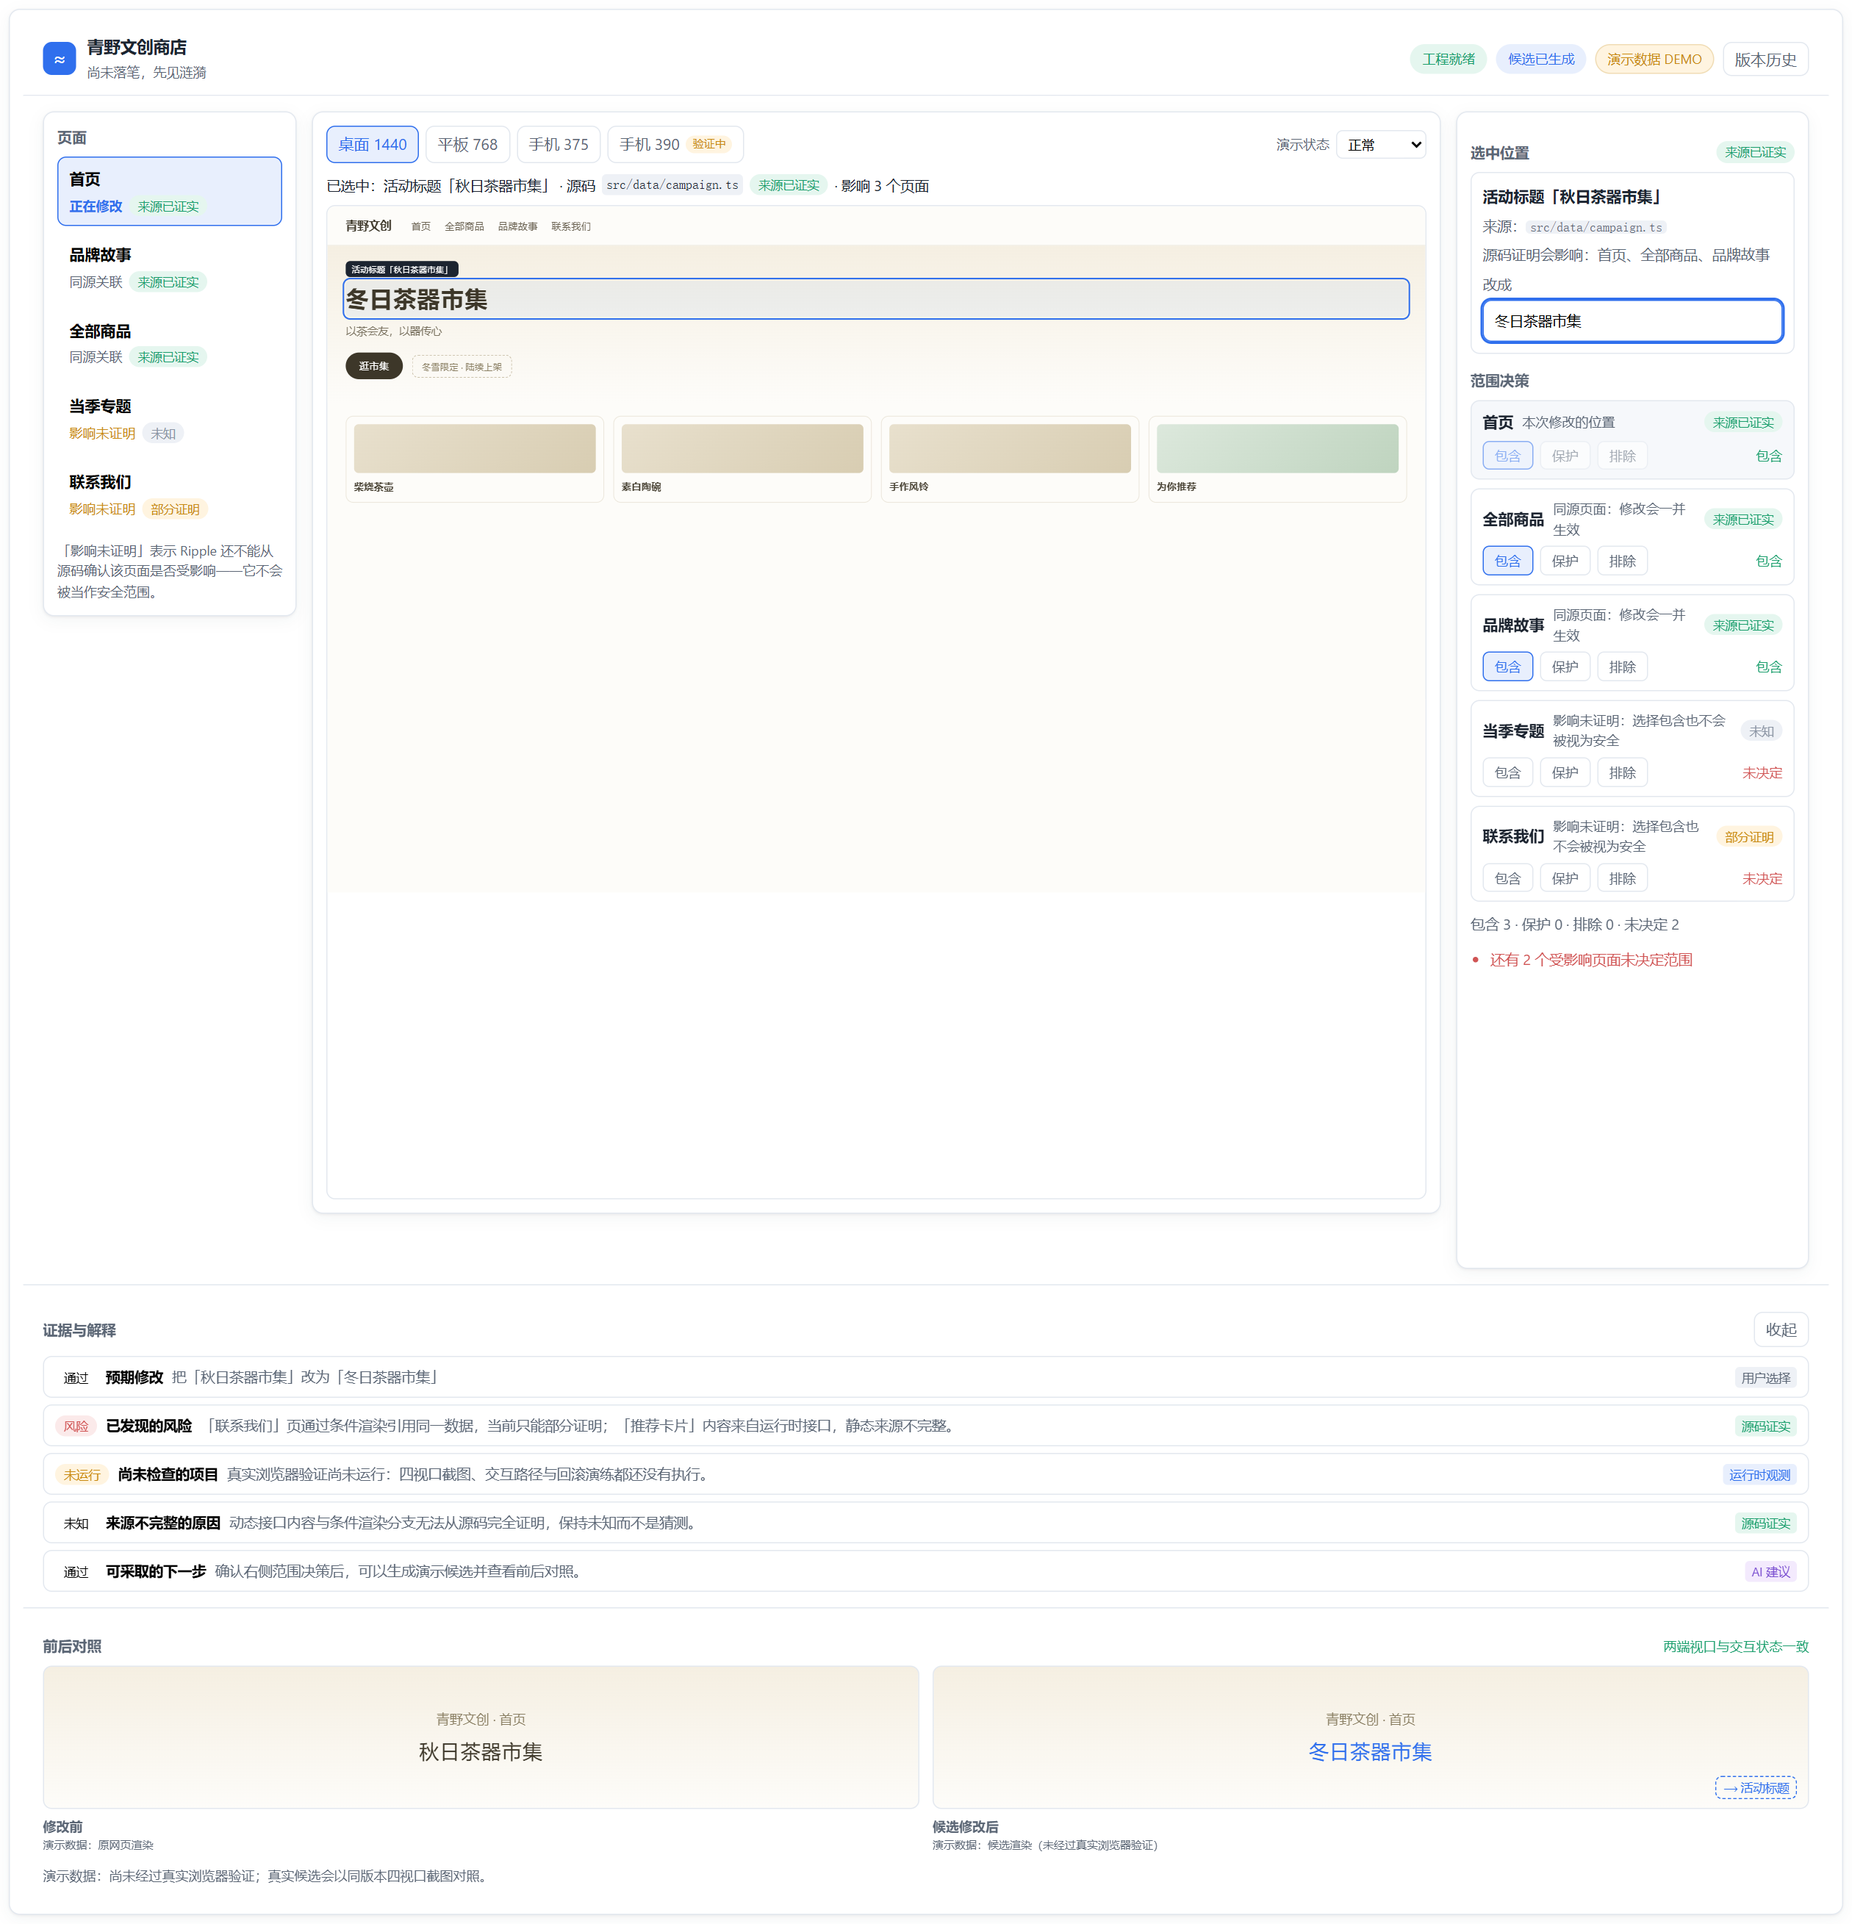
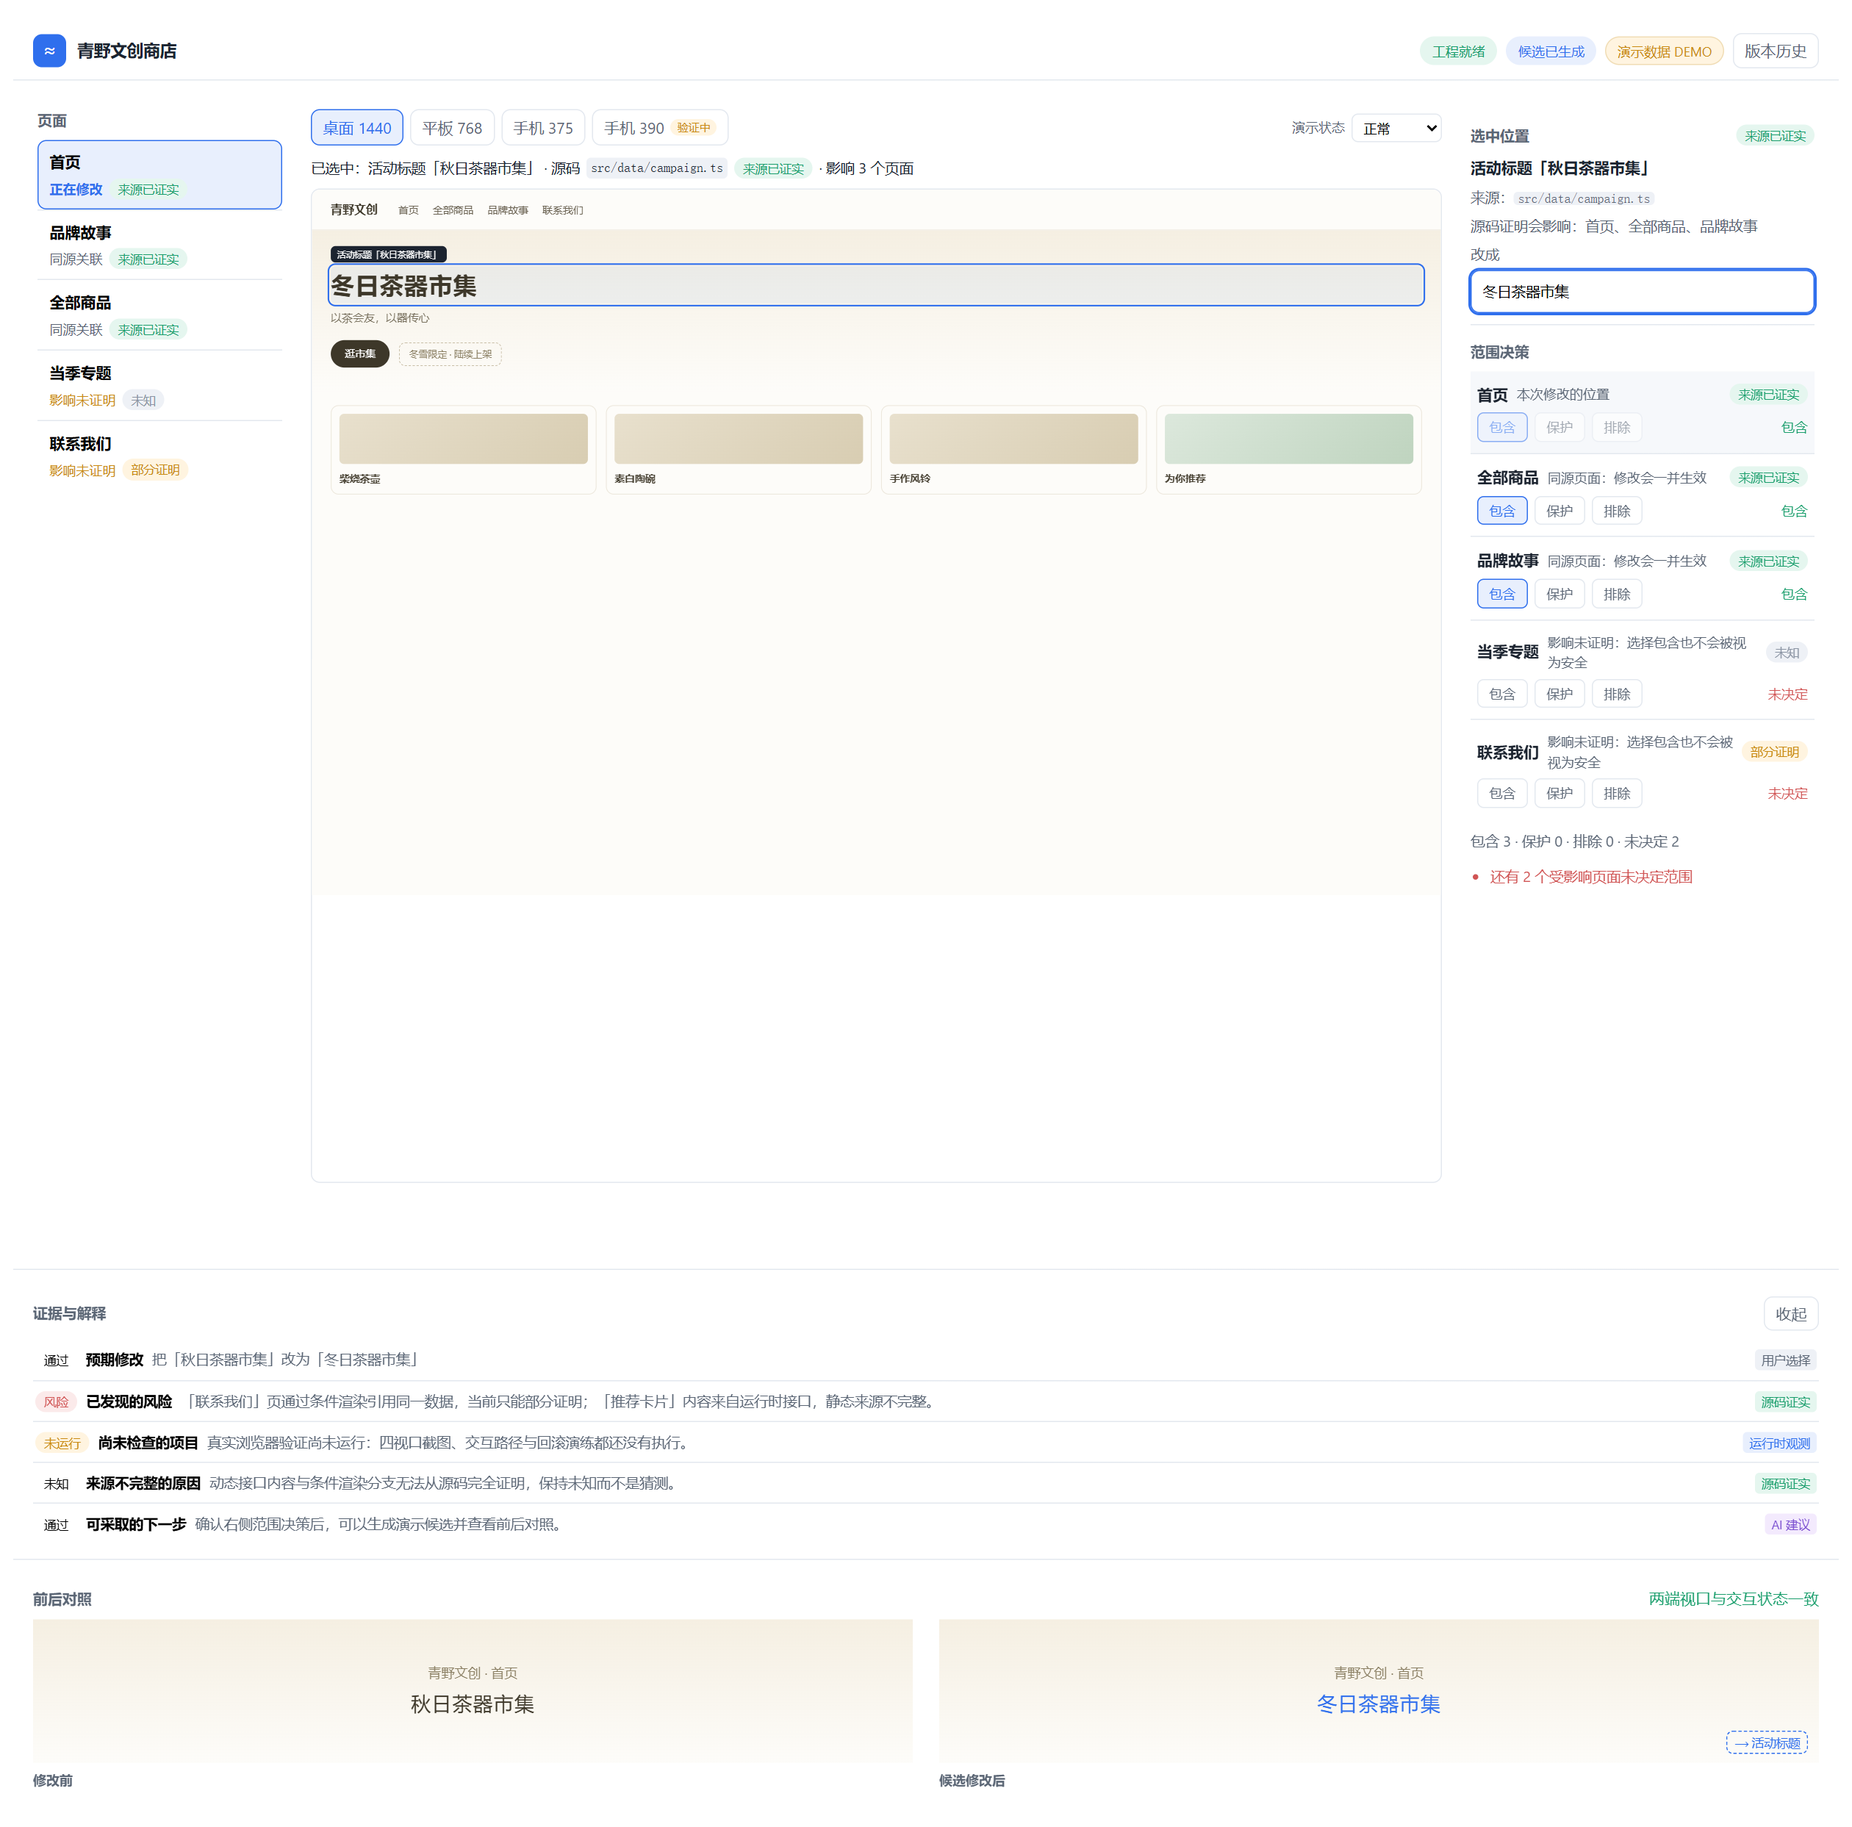
style(xp): 界面规范整改——去卡片容器、去小字备注、主标题短语化、去副标题

diff --git a/src/app/experience/ripple-xp.css b/src/app/experience/ripple-xp.css
@@ -15,8 +15,6 @@
   --xp-warn: #c98a12;
   --xp-risk: #d05454;
   --xp-unknown: #8a94a3;
-  --xp-radius: 10px;
-  --xp-shadow: 0 1px 2px rgba(28, 36, 48, 0.06), 0 4px 14px rgba(28, 36, 48, 0.05);
   color: var(--xp-ink);
   background: var(--xp-bg);
   font-family: var(--xp-font);
@@ -53,7 +51,6 @@
   display: grid; place-items: center; font-size: 18px;
 }
 .ripple-xp-brand strong { display: block; font-size: 15px; }
-.ripple-xp-tagline { font-size: 12px; color: var(--xp-ink-soft); }
 .ripple-xp-topbar-status { display: flex; align-items: center; gap: 8px; }
 
 .ripple-xp-chip {
@@ -75,9 +72,10 @@
 .ripple-xp-body { display: grid; grid-template-columns: 230px minmax(0, 1fr) 320px; gap: 14px; padding: 14px 18px; flex: 1; align-items: start; }
 .ripple-xp-section-title { display: flex; align-items: center; justify-content: space-between; margin: 14px 0 8px; }
 
-/* 左：页面导航 */
-.ripple-xp-page-rail { background: var(--xp-panel); border: 1px solid var(--xp-line); border-radius: var(--xp-radius); padding: 12px; box-shadow: var(--xp-shadow); }
-.ripple-xp-page-rail ul { list-style: none; margin: 8px 0 0; padding: 0; display: grid; gap: 6px; }
+/* 左：页面导航（无卡片：平面区域 + 行分隔线） */
+.ripple-xp-page-rail { background: var(--xp-panel); padding: 12px 4px; }
+.ripple-xp-page-rail ul { list-style: none; margin: 8px 0 0; padding: 0; display: grid; }
+.ripple-xp-page-rail li + li { border-top: 1px solid var(--xp-line); }
 .ripple-xp-page-item {
   width: 100%; text-align: left; border: 1px solid transparent; border-radius: 8px;
   background: none; padding: 8px 10px; display: grid; gap: 4px;
@@ -90,7 +88,6 @@
 .ripple-xp-relation { font-size: 12px; color: var(--xp-ink-soft); }
 .ripple-xp-relation-editing { color: var(--xp-brand); font-weight: 600; }
 .ripple-xp-relation-unproven { color: var(--xp-warn); }
-.ripple-xp-hint { font-size: 12px; color: var(--xp-ink-soft); margin: 10px 0 0; }
 
 /* 确定性 / 证据 / 生命周期 三态胶囊 */
 .ripple-xp-pill { border-radius: 999px; padding: 1px 8px; font-size: 11px; white-space: nowrap; }
@@ -106,7 +103,7 @@
 .ripple-xp-lc-rolled-back, .ripple-xp-lc-stale { background: #fbeaea; color: var(--xp-risk); }
 
 /* 中：画布 */
-.ripple-xp-stage { background: var(--xp-panel); border: 1px solid var(--xp-line); border-radius: var(--xp-radius); padding: 12px; box-shadow: var(--xp-shadow); min-width: 0; }
+.ripple-xp-stage { background: var(--xp-panel); padding: 12px 8px; min-width: 0; }
 .ripple-xp-stage-toolbar { display: flex; align-items: center; justify-content: space-between; gap: 10px; flex-wrap: wrap; }
 .ripple-xp-viewport-switch { display: flex; gap: 6px; flex-wrap: wrap; }
 .ripple-xp-viewport-switch button {
@@ -155,10 +152,10 @@
 }
 .ripple-xp-demo-el:focus-visible { outline: 2px solid var(--xp-brand); outline-offset: 2px; }
 
-/* 右：范围决策 */
-.ripple-xp-scope { background: var(--xp-panel); border: 1px solid var(--xp-line); border-radius: var(--xp-radius); padding: 12px; box-shadow: var(--xp-shadow); }
-.ripple-xp-selection-card { border: 1px solid var(--xp-line); border-radius: 8px; padding: 10px; display: grid; gap: 6px; }
-.ripple-xp-selection-card p { margin: 0; font-size: 13px; color: var(--xp-ink-soft); }
+/* 右：范围决策（无卡片） */
+.ripple-xp-scope { background: var(--xp-panel); padding: 12px 4px; }
+.ripple-xp-selection-block { display: grid; gap: 6px; padding-bottom: 10px; border-bottom: 1px solid var(--xp-line); }
+.ripple-xp-selection-block p { margin: 0; font-size: 13px; color: var(--xp-ink-soft); }
 .ripple-xp-warn { color: var(--xp-warn) !important; }
 .ripple-xp-intent { display: grid; gap: 4px; font-size: 13px; color: var(--xp-ink-soft); }
 .ripple-xp-intent input {
@@ -166,8 +163,9 @@
 }
 .ripple-xp-intent input:focus-visible { outline: 2px solid var(--xp-brand); border-color: var(--xp-brand); }
 
-.ripple-xp-scope-list { list-style: none; margin: 0; padding: 0; display: grid; gap: 8px; }
-.ripple-xp-scope-row { border: 1px solid var(--xp-line); border-radius: 8px; padding: 8px 10px; display: grid; gap: 6px; }
+.ripple-xp-scope-list { list-style: none; margin: 0; padding: 0; display: grid; }
+.ripple-xp-scope-row { padding: 10px 6px; display: grid; gap: 6px; }
+.ripple-xp-scope-row + .ripple-xp-scope-row { border-top: 1px solid var(--xp-line); }
 .ripple-xp-scope-row.is-locked { background: var(--xp-bg); }
 .ripple-xp-scope-head { display: flex; align-items: center; gap: 8px; flex-wrap: wrap; }
 .ripple-xp-scope-reason { font-size: 12px; color: var(--xp-ink-soft); flex: 1; }
@@ -190,12 +188,13 @@
 .ripple-xp-primary:hover { filter: brightness(1.06); }
 .ripple-xp-gate-reasons { margin: 0; padding-left: 18px; color: var(--xp-risk); font-size: 13px; display: grid; gap: 4px; }
 
-/* 底部：证据 / 对照 / 胶片 */
+/* 底部：证据 / 对照 / 胶片（无卡片） */
 .ripple-xp-evidence, .ripple-xp-compare, .ripple-xp-filmstrip {
   background: var(--xp-panel); border-top: 1px solid var(--xp-line); padding: 10px 18px 14px;
 }
-.ripple-xp-evidence-list { list-style: none; margin: 0; padding: 0; display: grid; gap: 6px; }
-.ripple-xp-evidence-item { display: flex; align-items: baseline; gap: 8px; flex-wrap: wrap; border: 1px solid var(--xp-line); border-radius: 8px; padding: 8px 10px; }
+.ripple-xp-evidence-list { list-style: none; margin: 0; padding: 0; display: grid; }
+.ripple-xp-evidence-item { display: flex; align-items: baseline; gap: 8px; flex-wrap: wrap; padding: 8px 2px; }
+.ripple-xp-evidence-item + .ripple-xp-evidence-item { border-top: 1px solid var(--xp-line); }
 .ripple-xp-evidence-head { display: contents; border: none; background: none; text-align: left; }
 .ripple-xp-ev-head, .ripple-xp-evidence-head strong { font-size: 13px; }
 .ripple-xp-ev-summary { flex: 1; min-width: 200px; color: var(--xp-ink-soft); font-size: 13px; }
@@ -206,10 +205,10 @@
 .ripple-xp-src-ai-suggestion { background: #f3eafd; color: #7a4fd0; }
 .ripple-xp-ev-detail { width: 100%; margin: 4px 0 0; font-size: 12px; color: var(--xp-ink-soft); border-top: 1px dashed var(--xp-line); padding-top: 6px; }
 
-.ripple-xp-compare-row { display: grid; grid-template-columns: 1fr 1fr; gap: 12px; }
+.ripple-xp-compare-row { display: grid; grid-template-columns: 1fr 1fr; gap: 24px; }
 .ripple-xp-compare-side { margin: 0; display: grid; gap: 6px; }
 .ripple-xp-compare-shot {
-  height: 130px; border: 1px solid var(--xp-line); border-radius: 8px; background: linear-gradient(180deg, #f5efe2, #fdfcf9);
+  height: 130px; background: linear-gradient(180deg, #f5efe2, #fdfcf9);
   display: grid; gap: 6px; align-content: center; justify-items: center; position: relative;
 }
 .ripple-xp-compare-page-title { font-size: 12px; color: #8a7f63; }
@@ -218,20 +217,22 @@
 .ripple-xp-focus-ring { position: absolute; right: 10px; bottom: 8px; font-size: 11px; color: var(--xp-brand); border: 1px dashed var(--xp-brand); border-radius: 6px; padding: 1px 6px; }
 .ripple-xp-compare-side figcaption { display: grid; font-size: 12px; color: var(--xp-ink-soft); }
 .ripple-xp-compare-note { color: var(--xp-warn); }
-.ripple-xp-match-note { font-size: 12px; color: var(--xp-ok); }
+.ripple-xp-match-note { color: var(--xp-ok); }
 .ripple-xp-match-note.is-mismatch { color: var(--xp-risk); }
 
-.ripple-xp-film-list { list-style: none; margin: 0; padding: 0; display: flex; gap: 10px; overflow-x: auto; }
+.ripple-xp-film-list { list-style: none; margin: 0; padding: 0; display: flex; gap: 0; overflow-x: auto; }
+.ripple-xp-film-list li + li { border-left: 1px solid var(--xp-line); }
 .ripple-xp-film-item {
-  display: flex; gap: 10px; align-items: center; border: 1px solid var(--xp-line); border-radius: 8px;
-  background: #fff; padding: 8px 12px 8px 8px; min-width: 230px; text-align: left;
+  display: flex; gap: 10px; align-items: center;
+  background: none; padding: 8px 18px 8px 8px; min-width: 250px; text-align: left;
 }
-.ripple-xp-film-item.is-active { border-color: var(--xp-brand); background: var(--xp-brand-soft); }
-.ripple-xp-film-frame { width: 56px; height: 40px; border-radius: 6px; background: #efe9db; display: grid; gap: 4px; padding: 6px; align-content: center; }
-.ripple-xp-film-bar { height: 6px; border-radius: 3px; background: #d8cdb2; }
-.ripple-xp-film-meta { display: grid; gap: 2px; font-size: 12px; color: var(--xp-ink-soft); }
-.ripple-xp-film-meta strong { color: var(--xp-ink); font-size: 13px; }
-.ripple-xp-film-tags { display: flex; gap: 6px; margin-top: 2px; }
+.ripple-xp-film-item.is-active { background: var(--xp-brand-soft); }
+.ripple-xp-film-frame { width: 56px; height: 40px; background: #efe9db; display: grid; gap: 4px; padding: 6px; align-content: center; }
+.ripple-xp-film-bar { height: 6px; background: #d8cdb2; }
+.ripple-xp-film-meta { display: grid; gap: 4px; font-size: 12px; color: var(--xp-ink-soft); }
+.ripple-xp-film-title { color: var(--xp-ink); font-size: 13px; }
+.ripple-xp-film-tags { display: flex; gap: 6px; align-items: center; }
+.ripple-xp-film-tags time { color: var(--xp-ink-soft); }
 
 /* 加载 / 错误态 */
 .ripple-xp-loading, .ripple-xp-fatal { display: grid; place-items: center; min-height: 60vh; color: var(--xp-ink-soft); }

diff --git a/src/app/experience/components/scope-panel.tsx b/src/app/experience/components/scope-panel.tsx
@@ -50,7 +50,7 @@ export function ScopePanel({ model, onDraftText, onPageScope, onDemoApprove }: {
   return <aside className="ripple-xp-scope" data-testid="scope-panel">
     <SectionTitle aside={selected && <CertaintyPill certainty={selected.certainty} />}>选中位置</SectionTitle>
     {selected ? (
-      <div className="ripple-xp-selection-card">
+      <div className="ripple-xp-selection-block">
         <strong>{selected.label}</strong>
         <p>来源：{selected.sourcePath ? <code>{selected.sourcePath}</code> : '运行时内容，静态来源未定位'}</p>
         {selected.unresolvedReasons.map(reason => <p key={reason} className="ripple-xp-warn">· {reason}</p>)}
@@ -67,7 +67,7 @@ export function ScopePanel({ model, onDraftText, onPageScope, onDemoApprove }: {
           </label>
         ) : <p className="ripple-xp-warn">该元素来源未知：可以先查看，但不能承诺修改范围。</p>}
       </div>
-    ) : <p className="ripple-xp-hint">在左侧画布中悬停并点击想修改的位置。</p>}
+    ) : <p>在左侧画布中悬停并点击想修改的位置。</p>}
 
     <SectionTitle>范围决策</SectionTitle>
     <ul className="ripple-xp-scope-list">

diff --git a/src/app/experience/components/version-filmstrip.tsx b/src/app/experience/components/version-filmstrip.tsx
@@ -29,19 +29,18 @@ export function VersionFilmstrip({ model, activeVersionId, onSelect, onClose }: 
               <span className="ripple-xp-film-bar" />
             </span>
             <span className="ripple-xp-film-meta">
-              <strong>{version.title}</strong>
-              <small>{version.updatedAt} · {version.summary}</small>
+              <span className="ripple-xp-film-title">{version.title} · {version.summary}</span>
               <span className="ripple-xp-film-tags">
                 <LifecyclePill lifecycle={version.lifecycle} />
                 <span className={`ripple-xp-chip ${version.evidenceAvailable ? 'ripple-xp-chip-ready' : 'ripple-xp-chip-none'}`}>
                   {version.evidenceAvailable ? '证据可用' : '无证据'}
                 </span>
+                <time>{version.updatedAt}</time>
               </span>
             </span>
           </button>
         </li>
       ))}
     </ol>
-    <p className="ripple-xp-hint">版本切换只定位到对应页面与候选信息；真实的应用与恢复由同一候选补丁生命周期完成。</p>
   </section>
 }

diff --git a/src/app/experience/components/compare-strip.tsx b/src/app/experience/components/compare-strip.tsx
@@ -26,7 +26,6 @@ export function CompareStrip({ model }: { model: ExperienceViewModel }) {
       </div>
       <figcaption>
         <strong>{label}</strong>
-        {sideState.note && <small>{sideState.note}</small>}
       </figcaption>
     </figure>
   )
@@ -40,6 +39,5 @@ export function CompareStrip({ model }: { model: ExperienceViewModel }) {
       {side('修改前', baseline, 'compare-baseline')}
       {side('候选修改后', candidate, 'compare-candidate')}
     </div>
-    {model.dataProvenance === 'demo' && <p className="ripple-xp-hint">演示数据：尚未经过真实浏览器验证；真实候选会以同版本四视口截图对照。</p>}
   </section>
 }

diff --git a/src/app/experience/components/top-bar.tsx b/src/app/experience/components/top-bar.tsx
@@ -14,7 +14,6 @@ export function TopBar({ model, onOpenHistory }: { model: ExperienceViewModel; o
       <span className="ripple-xp-logo" aria-hidden>≈</span>
       <div>
         <strong>{model.projectName}</strong>
-        <span className="ripple-xp-tagline">尚未落笔，先见涟漪</span>
       </div>
     </div>
     <div className="ripple-xp-topbar-status">

diff --git a/src/app/experience/components/page-rail.tsx b/src/app/experience/components/page-rail.tsx
@@ -39,6 +39,5 @@ export function PageRail({ pages, currentPageRef, onSelectPage }: {
         </li>
       ))}
     </ul>
-    <p className="ripple-xp-hint">「影响未证明」表示 Ripple 还不能从源码确认该页面是否受影响——它不会被当作安全范围。</p>
   </nav>
 }
